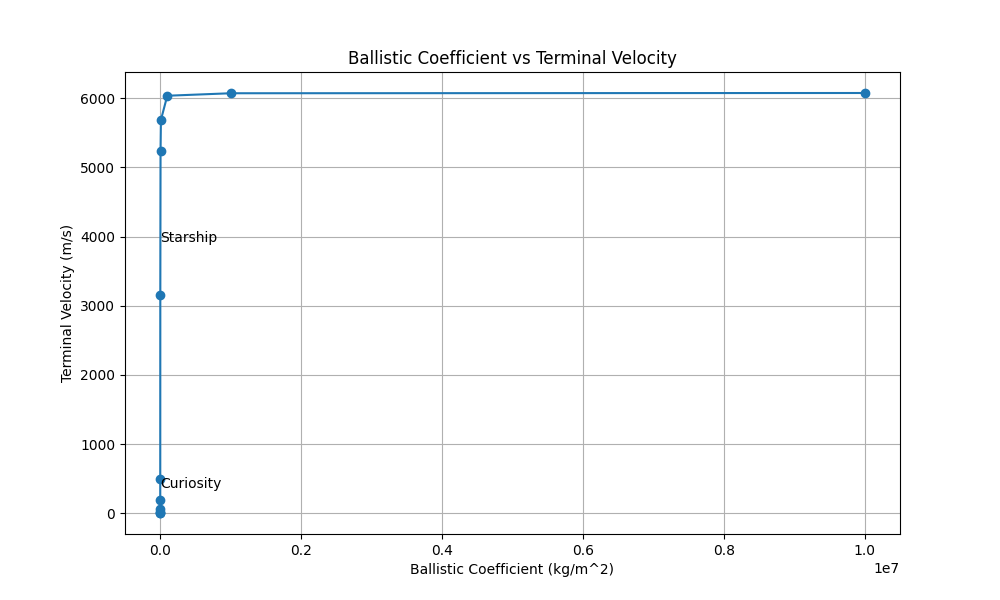
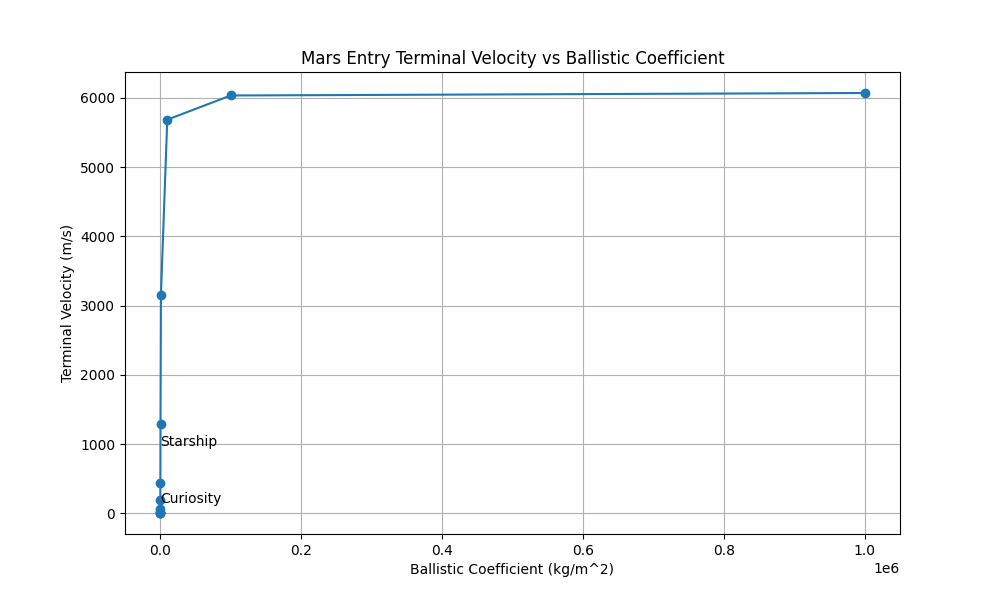
fixed starship & labels

diff --git a/Project/ballistic-coefficient.py b/Project/ballistic-coefficient.py
@@ -11,7 +11,7 @@ entry_flight_path_angle = -15
 entry_velocity = 6000
 
 area = 1
-ballistic_coefficients = [0.01,0.1,1,10,100,220,1000,4444,10000,100000,1000000,10000000]  # kg/m^2
+ballistic_coefficients = [0.001,0.01,0.1,1,10,100,207,400,1000,10000,100000,1000000]  # kg/m^2
 masses = [ballistic_coefficient * area for ballistic_coefficient in ballistic_coefficients]
 terminal_velocities = []
 
@@ -44,7 +44,7 @@ plt.xscale('log')
 plt.yscale('log')
 plt.xlabel('Ballistic Coefficient (kg/m^2)')
 plt.ylabel('Terminal Velocity (m/s)')
-plt.title('Ballistic Coefficient vs Terminal Velocity')
+plt.title('Mars Entry Terminal Velocity vs Ballistic Coefficient')
 plt.grid(True)
 for i, label in enumerate(annoation_labels):
     plt.annotate(label, xy=(ballistic_coefficients[annotation_indexes[i]], terminal_velocities[annotation_indexes[i]]), xytext=(ballistic_coefficients[annotation_indexes[i]], terminal_velocities[annotation_indexes[i]]*0.75))
@@ -56,7 +56,7 @@ plt.figure(figsize=(10, 6))
 plt.plot(ballistic_coefficients, terminal_velocities, marker='o')
 plt.xlabel('Ballistic Coefficient (kg/m^2)')
 plt.ylabel('Terminal Velocity (m/s)')
-plt.title('Ballistic Coefficient vs Terminal Velocity')
+plt.title('Mars Entry Terminal Velocity vs Ballistic Coefficient')
 plt.grid(True)
 for i, label in enumerate(annoation_labels):
     plt.annotate(label, xy=(ballistic_coefficients[annotation_indexes[i]], terminal_velocities[annotation_indexes[i]]), xytext=(ballistic_coefficients[annotation_indexes[i]], terminal_velocities[annotation_indexes[i]]*0.75))
